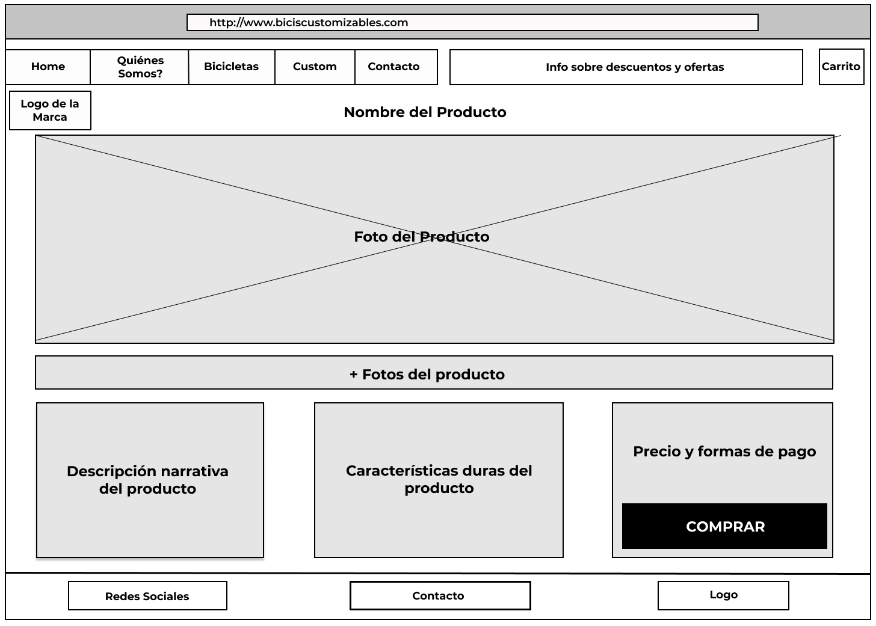
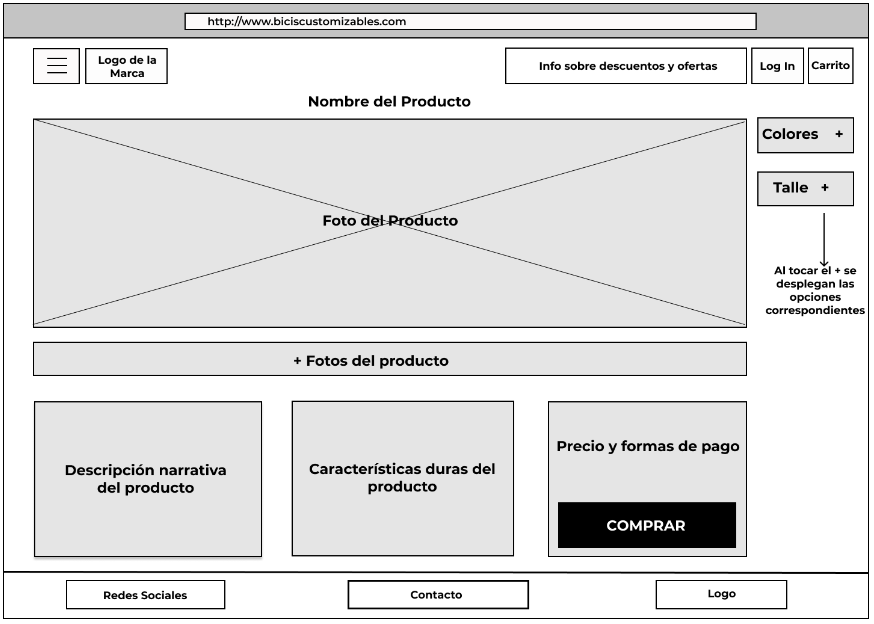
subo los wireframe modificados, junto con link nuevo de marvel y sección mockups.

diff --git a/README.md b/README.md
@@ -227,22 +227,30 @@ ___
 
 + ## ___Wireframes___
 
-    - Utilizamos figma para realizar nuestras piezas. Tambien pueden observar su vinculación e interacciones logradas a traves de marvel en el siguiente [link](https://marvelapp.com/4h0aj0i). A continuación, las detallamos:
+    - Utilizamos figma para realizar nuestras piezas. Tambien pueden observar su vinculación e interacciones logradas a traves de marvel en el siguiente [link](https://marvelapp.com/120dg23e). A continuación, las detallamos:
 
       - __Home:__
          ![capturas](/capturas/1Home.png)
+      - __¿Quiénes Somos?:__
+         ![capturas]() 
+      - __Burger:__
+         ![capturas](/capturas/11Burger.png)
+      - __Login:__
+         ![capturas](/capturas/12Login.png)
+      - __Productos General:__
+         ![capturas](/capturas/13ProdGral.png)
       - __Detalle de producto:__
          ![capturas](/capturas/2DetalleProducto.png)
       - __Custom de producto:__
          ![capturas](/capturas/3CustomProducto.png)
       - __Carrito de compras:__
-        ![capturas](/capturas/carrito1.png)
+        ![capturas](/capturas/4Carrito1.png)
         1. __Formulario de Registro:__
-            ![capturas](/capturas/carrito2-formularioregistro.png)
+            ![capturas](/capturas/5Carrito2-FormularioRegistro.png)
         2. __Forma de pago:__
-            ![capturas](/capturas/carrito3-formadepago.png)
+            ![capturas](/capturas/6Carrito3-Formadepago.png)
         3. __Confirmación de compra:__
-            ![capturas](/capturas/carrito4-confirmaciondecompra.png)
+            ![capturas](/capturas/7Carrito4-Confirmacióndecompra.png)
       - __Formulario de carga de producto (administrador):__
             ![capturas](/capturas/FormularioCargaAdmin.1.png)
         1. __Opción Producto Final:__
@@ -251,6 +259,23 @@ ___
             ![capturas](/capturas/FormularioCargaAdmin.3OpciónCustom.png)
 
 ___     
+
++ ## ___Mockups___
+    
+    - __Home:__
+         ![capturas](/capturas/)
+    - __Carrito de compras:__
+        ![capturas](/capturas/)
+        1. __Formulario de Registro:__
+            ![capturas](/capturas/)
+        2. __Forma de pago:__
+            ![capturas](/capturas/)
+        3. __Confirmación de compra:__
+            ![capturas](/capturas/)
+
+
+
+
 
 + ## ___Paleta de colores___
     - __Basado en la siguiente:__ [___Link___](https://coolors.co/000000-91918d-ff6000-49d4c6-ffffff)
